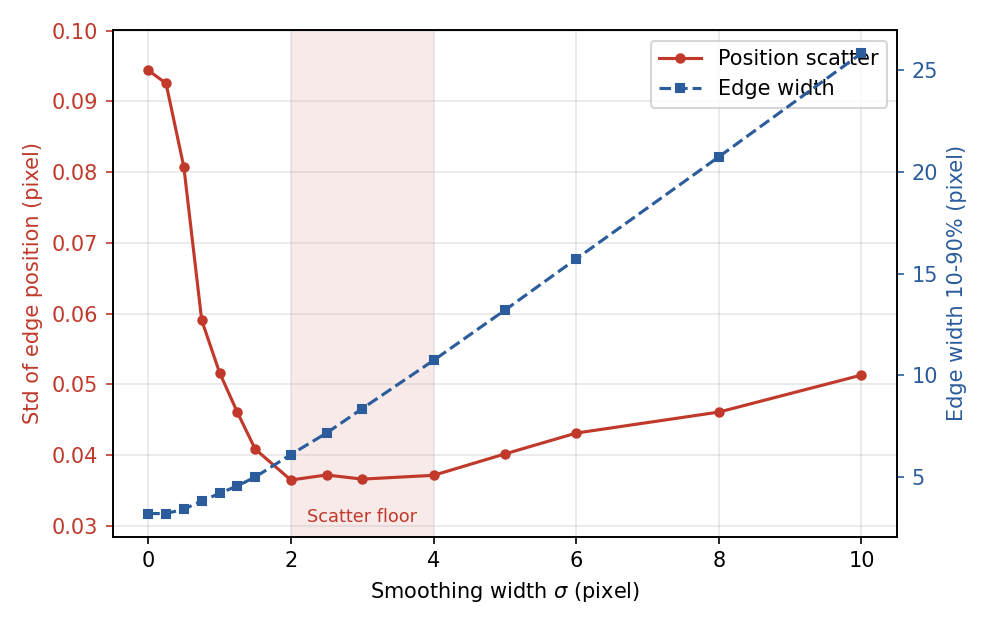
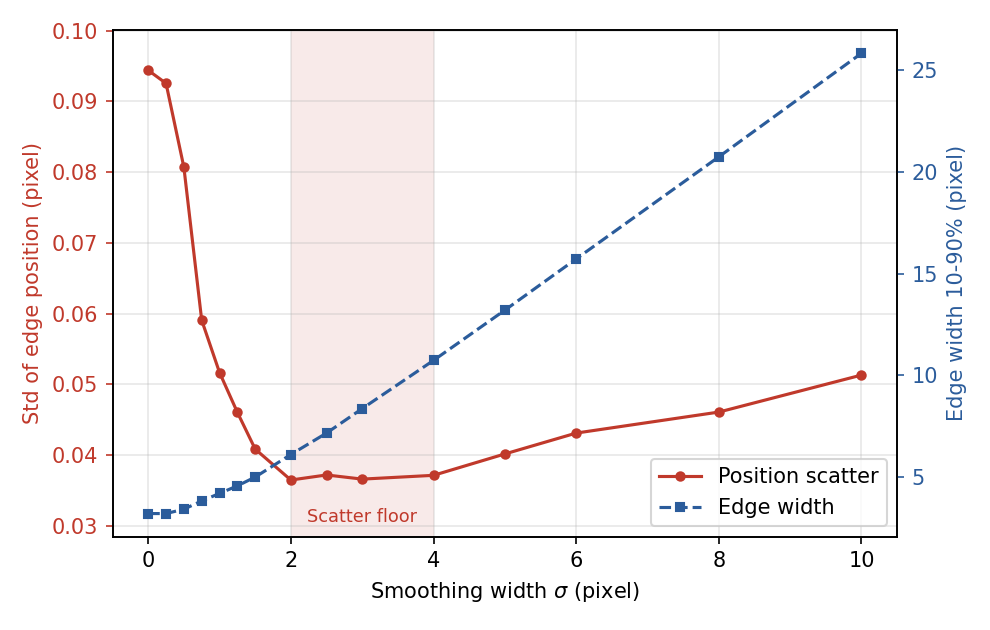
fix(post): imgproc-convolution-kernels — 그림 다시 생성(범례·라벨 겹침, 그림 속 번호·캡션 제거)
그림을 다시 그려야 고칠 수 있던 경미 항목을 고쳤다. 데이터와 계산은 바꾸지 않았다.

근거: _references/imgproc-convolution-kernels/audit-20261015.md (B 경미), 목록 _references/_fig-queue-20261015.md

Changed region(s): [[0.6667, 0.0603, 0.9091, 0.181], [0.6667, 0.7238, 0.9091, 0.8444]]

diff --git a/_code/imgproc-convolution-kernels/generate_figures.py b/_code/imgproc-convolution-kernels/generate_figures.py
@@ -205,7 +205,7 @@ def draw(L):
     ax2.set_ylabel(L["width_ax"], color="#2b5c9b", **F)
     ax2.tick_params(axis="y", colors="#2b5c9b")
     h1, l1 = ax.get_legend_handles_labels(); h2, l2 = ax2.get_legend_handles_labels()
-    ax.legend(h1 + h2, l1 + l2, prop=LG, fontsize=9, loc="upper right")
+    ax.legend(h1 + h2, l1 + l2, prop=LG, fontsize=9, loc="lower right")
     fig.tight_layout()
     fig.savefig(os.path.join(out, "fig4-edge-tradeoff.png"), dpi=150)
     plt.close(fig)
